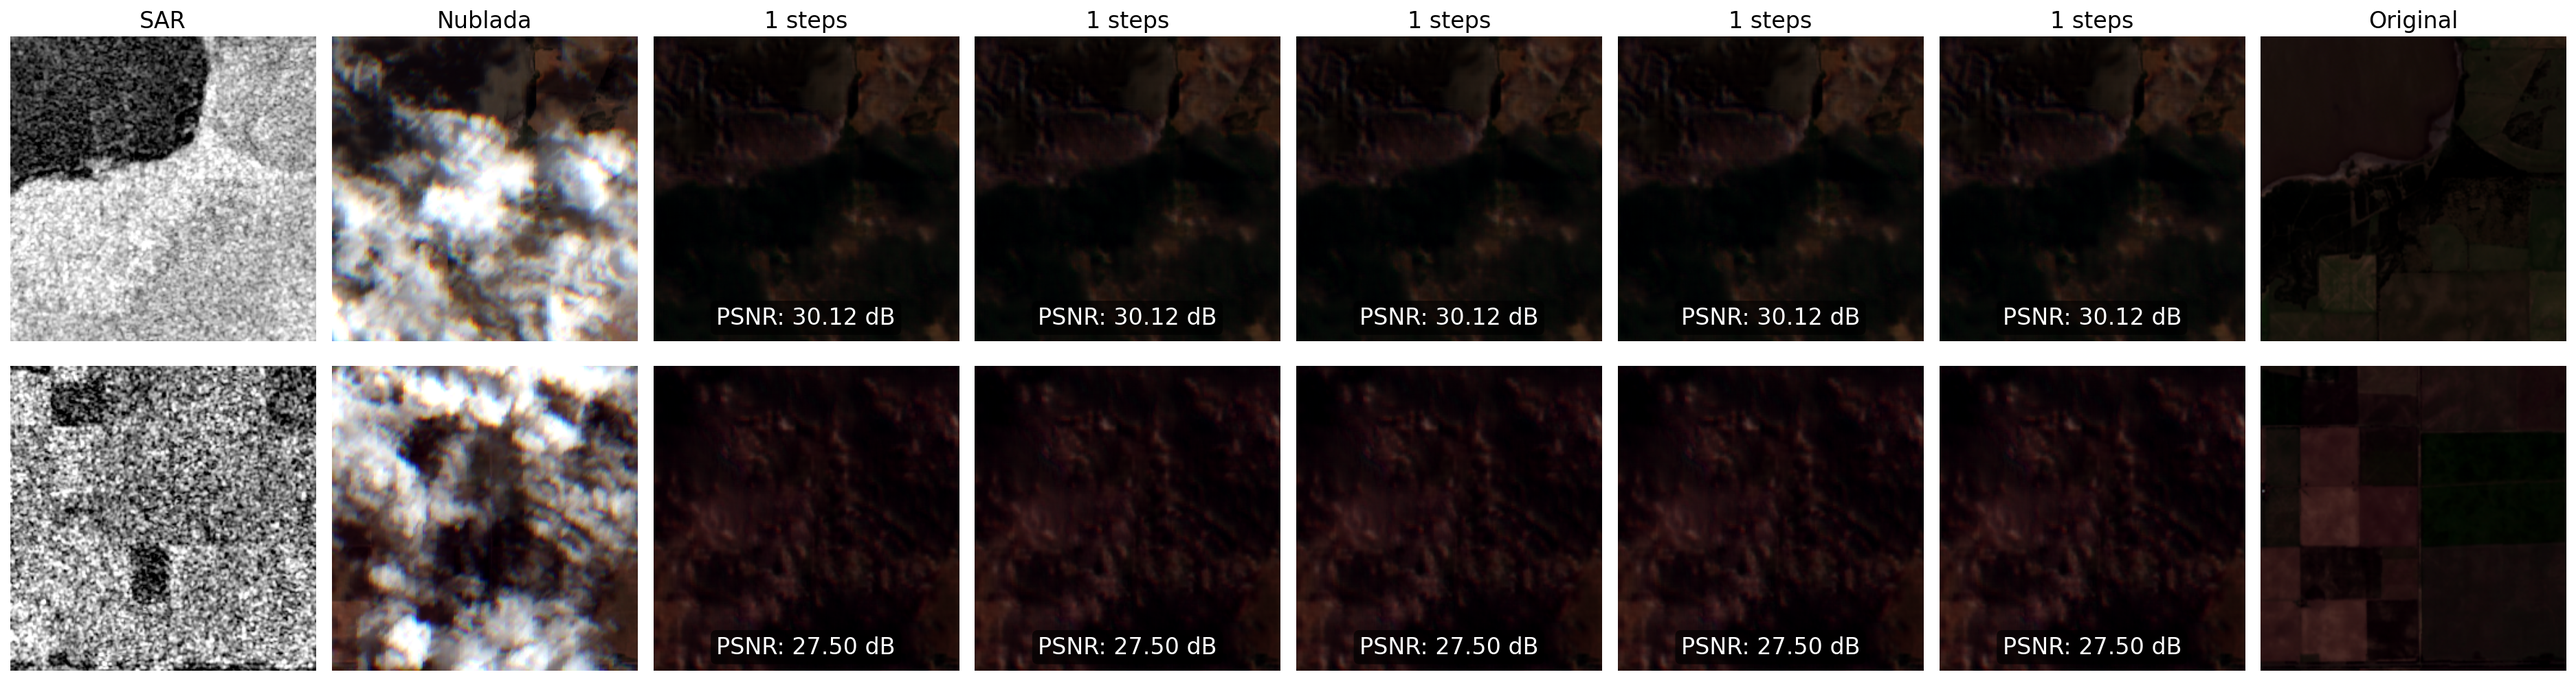
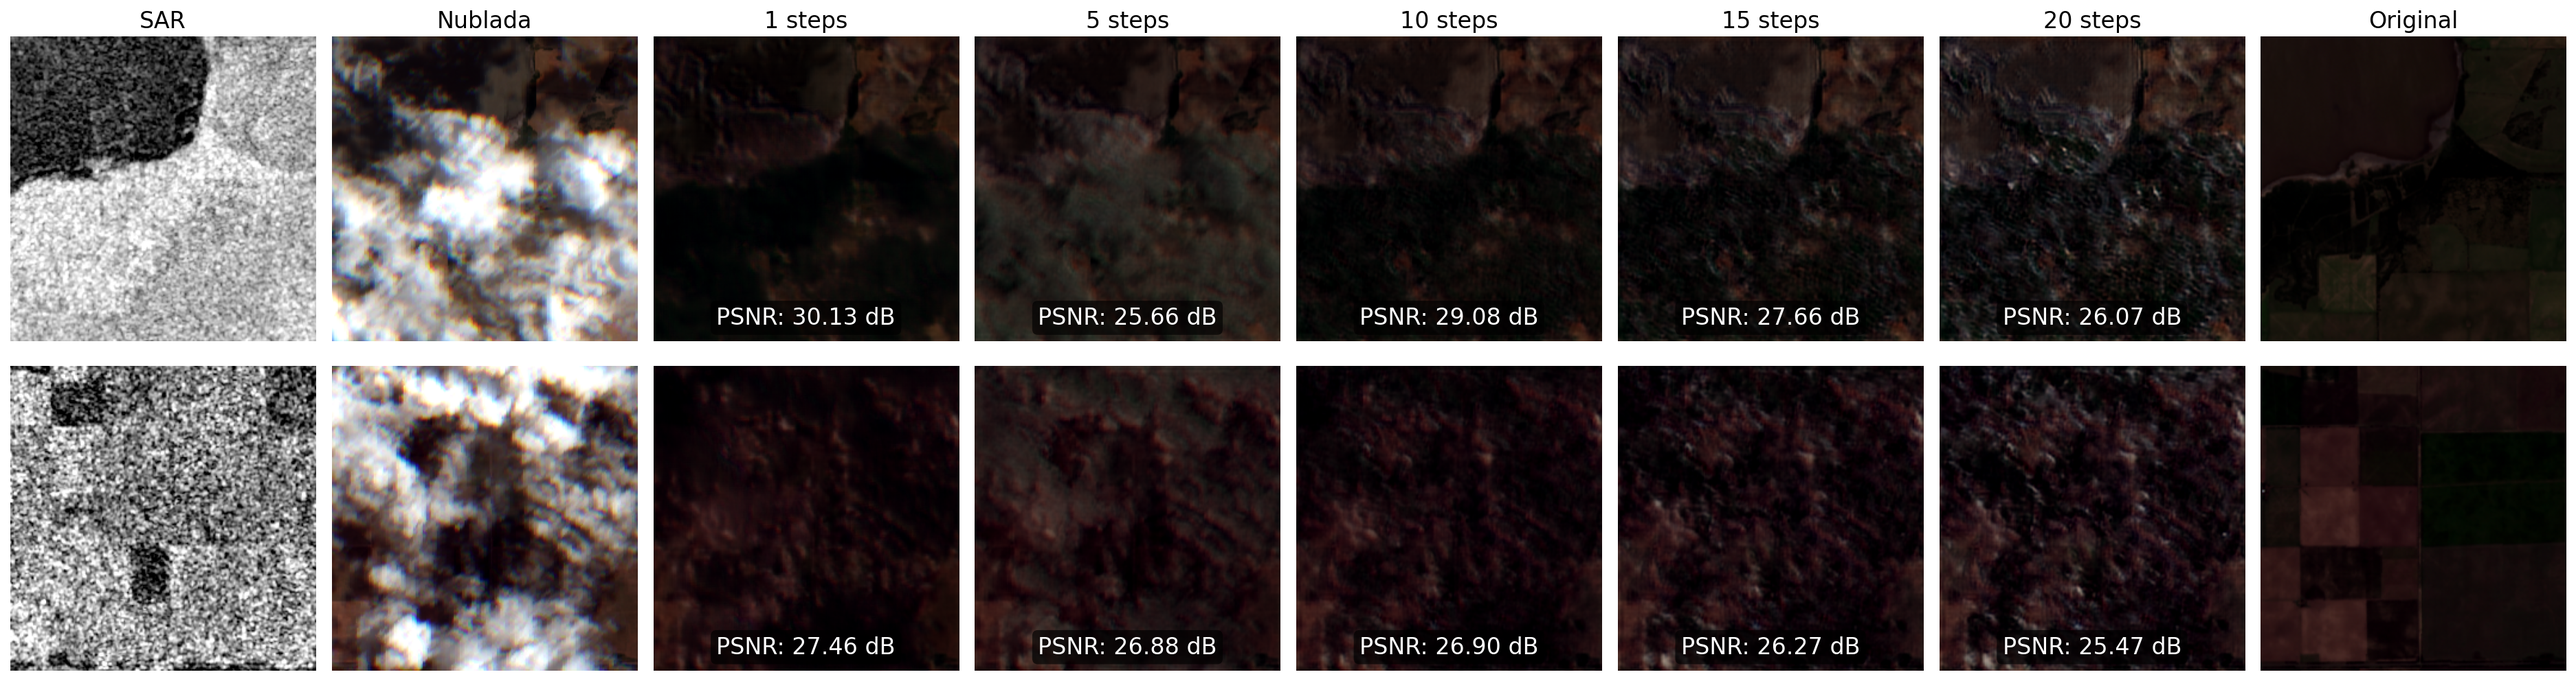
A seguir mañana entrenando

diff --git a/visualize/visualize_inference_steps.py b/visualize/visualize_inference_steps.py
@@ -27,13 +27,13 @@ from evaluate_utils import psnr
 REPO_ID   = "LucioLuque/lama"
 FILENAME  = "dbcr_complex_v4.pth"
 SAR_MODE  = "ControlNet"
-SEED      = 2
+SEED      = 0
 N_SAMPLES = 2
 T         = 1000
 SIGMOID_K = 10.0
 
-# STEPS_LIST = [1, 5, 10, 15, 20]
-STEPS_LIST = [1, 1, 1, 1, 1]
+STEPS_LIST = [1, 5, 10, 15, 20]
+# STEPS_LIST = [1, 1, 1, 1, 1]
 
 COL_LABELS = ["SAR", "Nublada"] + [f"{s} steps" for s in STEPS_LIST] + ["Original"]
 

diff --git a/train/train_dbcr_simple.py b/train/train_dbcr_simple.py
@@ -227,6 +227,7 @@ if __name__ == "__main__":
         repo_id=repo_id,
         version=version,
         filename=save_filename,
+        model_name="dbcr_" + sar_mode.lower(),
         base_model=save_filename,
         sar_mode=sar_mode,
         phase1_info={

diff --git a/utils/evaluate_utils.py b/utils/evaluate_utils.py
@@ -1,6 +1,6 @@
 import torch
 import numpy as np
-import tqdm
+from tqdm import tqdm
 
 from dataset_utils import unpack_batch
 
